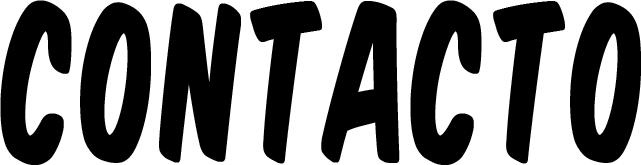
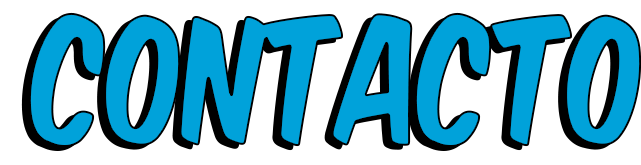
Desktop terminado

diff --git a/src/style.css b/src/style.css
@@ -139,7 +139,7 @@
     border: none;
     background-color: #FFDF00;
     padding: 10px;
-    border-radius: 5px
+    border-radius: 5px;
 }
 
 .demo2 {
@@ -222,8 +222,8 @@
 .aboutMePhotoText{
     position: absolute;
     width: 400px;
-    top: -40px;
-    left: -30px;
+    top: 35px;
+    left: 20px;
     z-index: 99;
     transform: rotate(5deg)
 }
@@ -385,7 +385,8 @@ body {
     position: relative;
     width: 695px;
     height: 570px;
-    background-color: whitesmoke;
+    background-image: url("./images/cata.jpg");
+    background-size: 130%;
     -webkit-clip-path: polygon(0 0, 68% 9%, 87% 100%, 0% 100%);
     clip-path: polygon(
     0 2%,
@@ -439,7 +440,7 @@ body {
     left: 698px;
     top: -573px;
     margin-top: 130px;
-    background-color: whitesmoke;
+    background-color: rgb(30, 189, 241);
     width: 624px;
     height: 440px;
     border-right: 2px solid black;
@@ -451,7 +452,7 @@ body {
 	content: "";
 	width: 60px;
 	height: 495px;
-	background-color: whitesmoke;
+	background-color: rgb(30, 189, 241);
     transform-origin: top left;
     margin-top: -61px;
     margin-left: -45.5px;
@@ -467,7 +468,7 @@ body {
 	content: "";
 	width: 625px;
 	height: 200px;
-	background-color: whitesmoke;
+	background-color: rgb(30, 189, 241);
 	transform-origin: top right;
 	transform: skewY(5deg);
     z-index: -10;
@@ -528,7 +529,7 @@ body {
     top: -1286px;
     margin-top: 70px;
     position: relative;
-    background-color: whitesmoke;
+    background-color: rgb(245, 245, 245);
     width: 660px;
     height: 487px;
     border-right: 2px solid black;
@@ -570,7 +571,7 @@ body {
 
 .project1{ 
     position: relative;
-    top: -1045px;
+    top: -1046.5px;
     background-color: whitesmoke;
     width: 430px;
     height: 400px;
@@ -602,7 +603,7 @@ body {
 
 .project2{ 
     position: relative;
-    top: -1727px;
+    top: -1726px;
     left: 445px;
     background-color: whitesmoke;
     width: 430px;
@@ -635,7 +636,7 @@ body {
 
 .project3{ 
     position: relative;
-    top: -2528px;
+    top: -2525.5px;
     left: 890px;
     background-color: whitesmoke;
     width: 430px;
@@ -699,7 +700,7 @@ body {
     top: -3216.5px;
     left: 850px;
     position: relative;
-    background-color: whitesmoke;
+    background-color: rgb(248, 238, 90);
     width: 472px;
     height: 700px;
     border-right: 2px solid black;
@@ -712,7 +713,7 @@ body {
 	content: "";
 	width: 160px;
 	height: 701px;
-	background-color: whitesmoke;
+	background-color: rgb(248, 238, 90);
 	transform-origin: top left;
 	transform: skew(-5deg);
     z-index: -10;
@@ -753,7 +754,9 @@ nav.sticky{
     margin-top: 10px;
     height: 30px;
     font-family: sans-serif;
-    background-color: whitesmoke;
+    background-color: #FFDF00;
+    border-radius: 5px;
+    border: 1px solid black
 }
 
 .githubContact {
@@ -807,7 +810,8 @@ h1{
     z-index: 99;
     font-family: sans-serif;
     margin-top: 190px;
-    margin-left: 40px
+    margin-left: 40px;
+    text-align: center;
 }
 
 .starProject{
@@ -831,6 +835,10 @@ h1{
 
 .starProjectsResponsive{
     display: none;
+}
+
+.container > button {
+    font-family: 'Lato', sans-serif;
 }
 
     @media screen and (max-width: 800px) {

diff --git a/src/start.js b/src/start.js
@@ -16,9 +16,9 @@ function start(){
     <img class="bocadillo" src="./images/bocadillo.png">
 </div>
 <div class="aboutMe">
+<img class="aboutMePhotoText" src="images/sobreMi.png"> 
 </div>
 <div class="aboutMeText">
-<img class="aboutMePhotoText" src="images/sobreMi.png"> 
 <img class="aboutMePhotoTextResponsive" src="images/sobreMi.png"> 
 </div>
 <div class="skillsPhoto">
@@ -75,7 +75,7 @@ function start(){
 <div class="contact">
     <img class="contactTitle" src="./images/contacto.png">
     <h1>
-    Hola hola hola Hola hola hola Hola hola hola Hola hola hola Hola hola hola 
+    Hey! Puedes contactarme en catalina.camposcaceres9@gmail.com o en alguno de los siguientes links. Hasta la próxima!
     </h1>
     <img class="githubContact" src="./images/githubContacto.png">
     <form action="https://github.com/CatalinaCampos" class="goGithub">
@@ -109,7 +109,7 @@ function projects() {
 }
 
 function contact() {
-    scrollTo(0, 2250)
+    scrollTo(0, 2260)
 }
 
 
